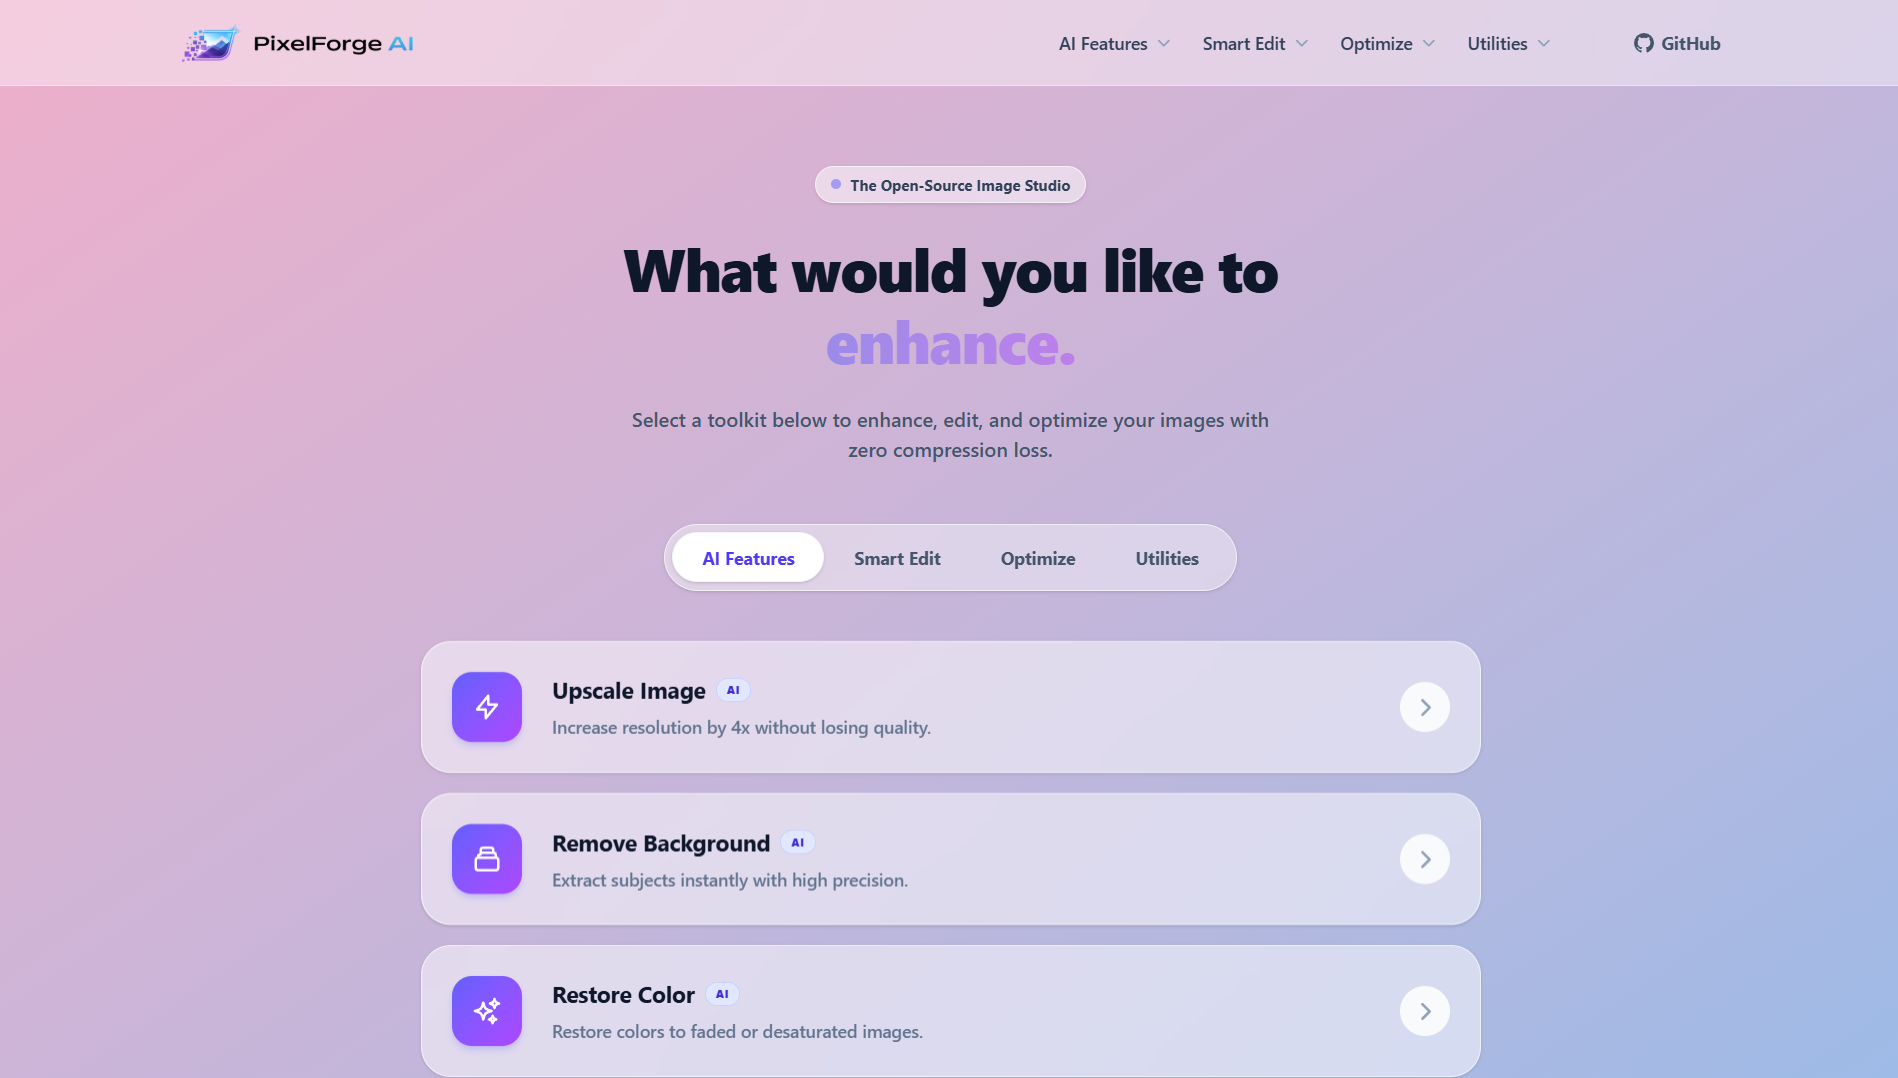
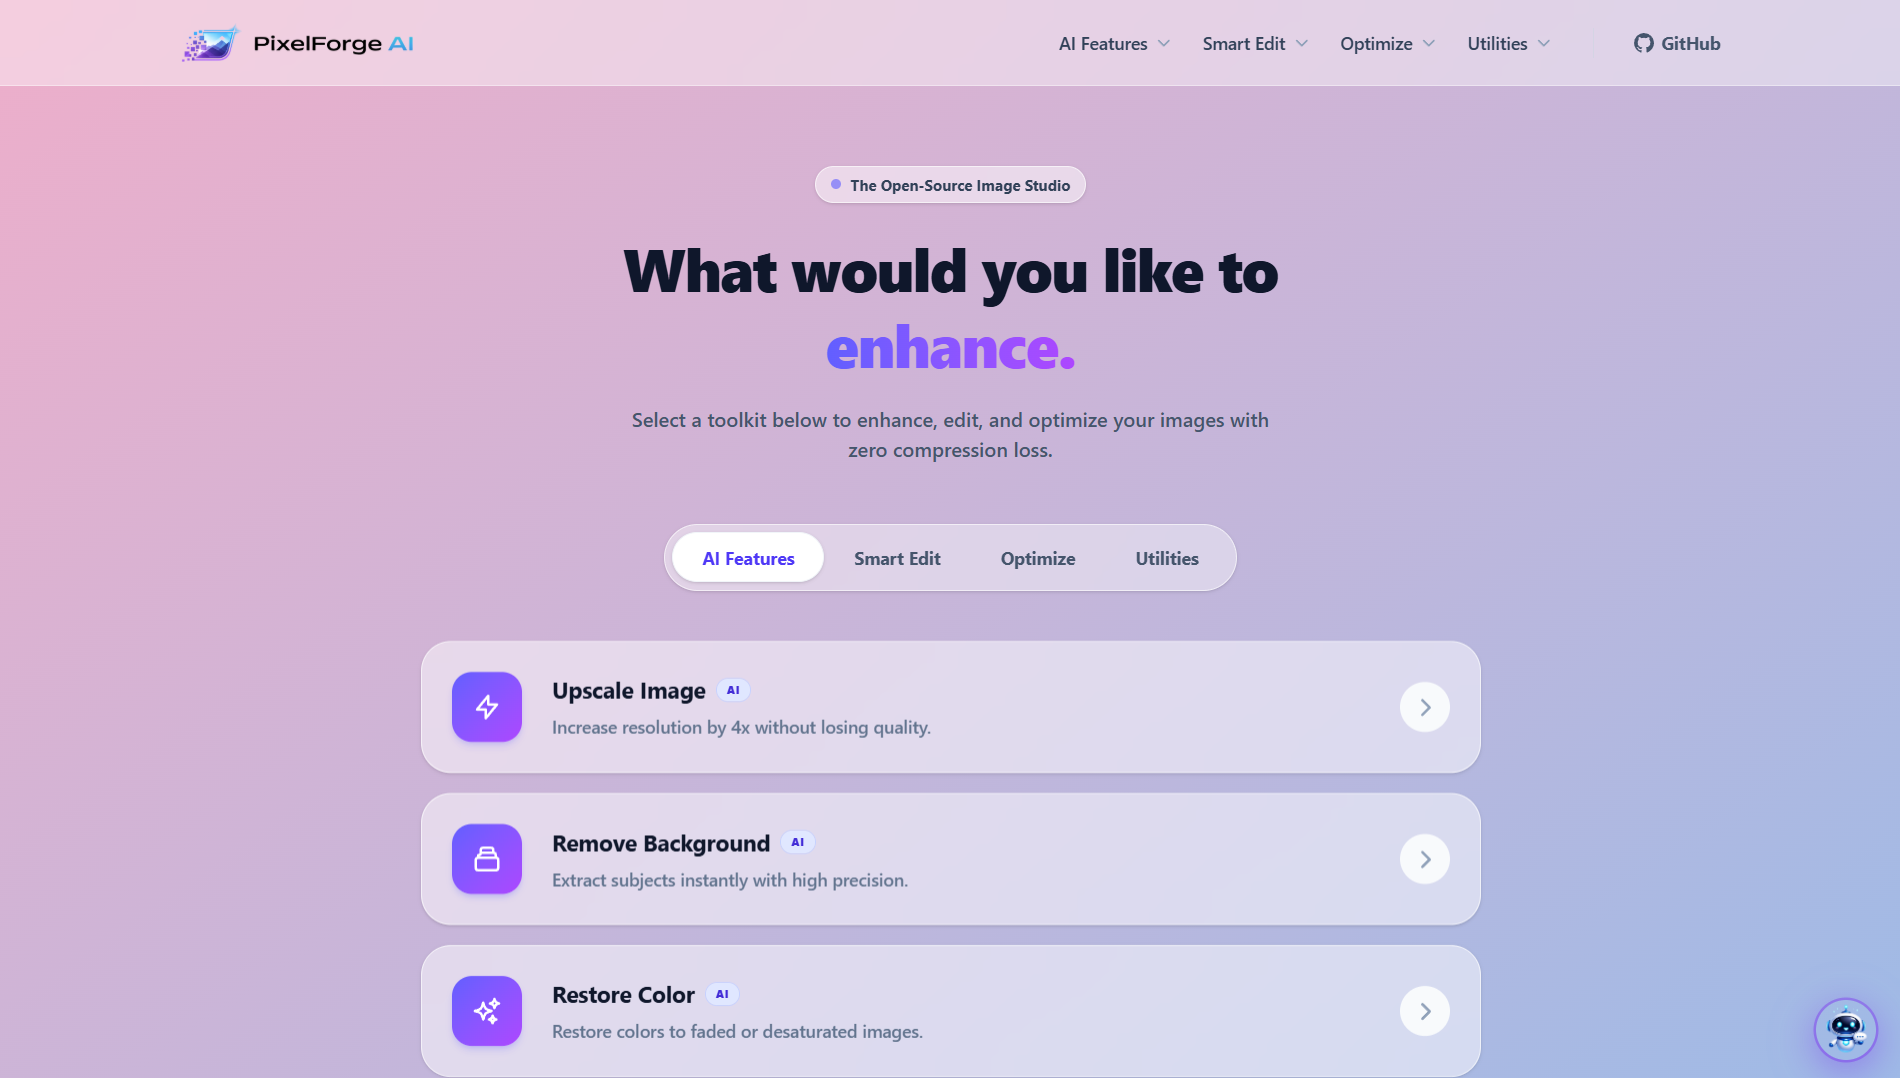
refactor: tweak FAB, footer layout, and manifest
* replace screenshot assets and update sizes in site.webmanifest
* reduce FAB toggle size (w-14 → w-12)
* center and simplify footer layout
* update attribution to "AI Powered by Replicate"
* add button type attributes for accessibility and cleanup
* adjust FaqChatbotWidget positioning with safe-area inset
* tweak right spacing for better mobile support

details: improves UI consistency, accessibility, and mobile/safe-area behavior across layout and chatbot widget

diff --git a/frontend/src/components/Layout/Footer.jsx b/frontend/src/components/Layout/Footer.jsx
@@ -9,13 +9,13 @@ import PropTypes from 'prop-types';
 export default function Footer({ openModal }) {
   return (
     <footer className="w-full border-t border-white/30 bg-white/20 backdrop-blur-md">
-      <div className="max-w-7xl mx-auto px-6 py-8 flex flex-col sm:flex-row items-center justify-between gap-4 text-sm text-slate-600">
-        <p>© 2026 Pixel Forge. Powered by Real-ESRGAN.</p>
-        
+      <div className="max-w-7xl mx-auto px-6 py-6 flex flex-col items-center justify-center gap-4 text-sm text-slate-600">
+        <p className="text-center">© 2026 Pixel Forge. AI Powered by Replicate.</p>
+
         <div className="flex items-center gap-6 group font-medium">
-          <button onClick={() => openModal('privacy')} className="transition-colors focus:outline-none group-hover:text-slate-400 hover:text-slate-900!">Privacy</button>
-          <button onClick={() => openModal('terms')} className="transition-colors focus:outline-none group-hover:text-slate-400 hover:text-slate-900!">Terms</button>
-          <button onClick={() => openModal('security')} className="transition-colors focus:outline-none group-hover:text-slate-400 hover:text-slate-900!">Security</button>
+          <button type="button" onClick={() => openModal('privacy')} className="transition-colors focus:outline-none group-hover:text-slate-400 hover:text-slate-900">Privacy</button>
+          <button type="button" onClick={() => openModal('terms')} className="transition-colors focus:outline-none group-hover:text-slate-400 hover:text-slate-900">Terms</button>
+          <button type="button" onClick={() => openModal('security')} className="transition-colors focus:outline-none group-hover:text-slate-400 hover:text-slate-900">Security</button>
         </div>
       </div>
     </footer>

diff --git a/frontend/src/pages/Special/FaqChatbotWidget.jsx b/frontend/src/pages/Special/FaqChatbotWidget.jsx
@@ -45,7 +45,12 @@ export default function FaqChatbotWidget() {
   return (
     <>
       <style dangerouslySetInnerHTML={{ __html: WIDGET_STYLES }} />
-      <div className="fixed bottom-10 md:bottom-5 right-5 flex flex-col items-end z-999 fw text-slate-800">
+      <div
+      className="fixed right-4 sm:right-5 flex flex-col items-end z-999 fw text-slate-800"
+      style={{
+        bottom: 'calc(var(--footer-safe-offset, 16px) + env(safe-area-inset-bottom))',
+      }}
+    >
         <AnimatePresence>
           {isOpen && (
             <motion.div

diff --git a/frontend/src/components/Bot/FabToggle.jsx b/frontend/src/components/Bot/FabToggle.jsx
@@ -8,7 +8,7 @@ export default function FabToggle({ isOpen, setIsOpen, img }) {
     <div className="relative flex items-center justify-center">
       <button
         onClick={() => setIsOpen((v) => !v)}
-        className="relative w-14 h-14 rounded-full overflow-hidden transition-all"
+        className="relative w-12 h-12 rounded-full overflow-hidden transition-all"
         style={{
           boxShadow: isOpen
             ? '0 8px 28px rgba(12,11,24,0.55)'